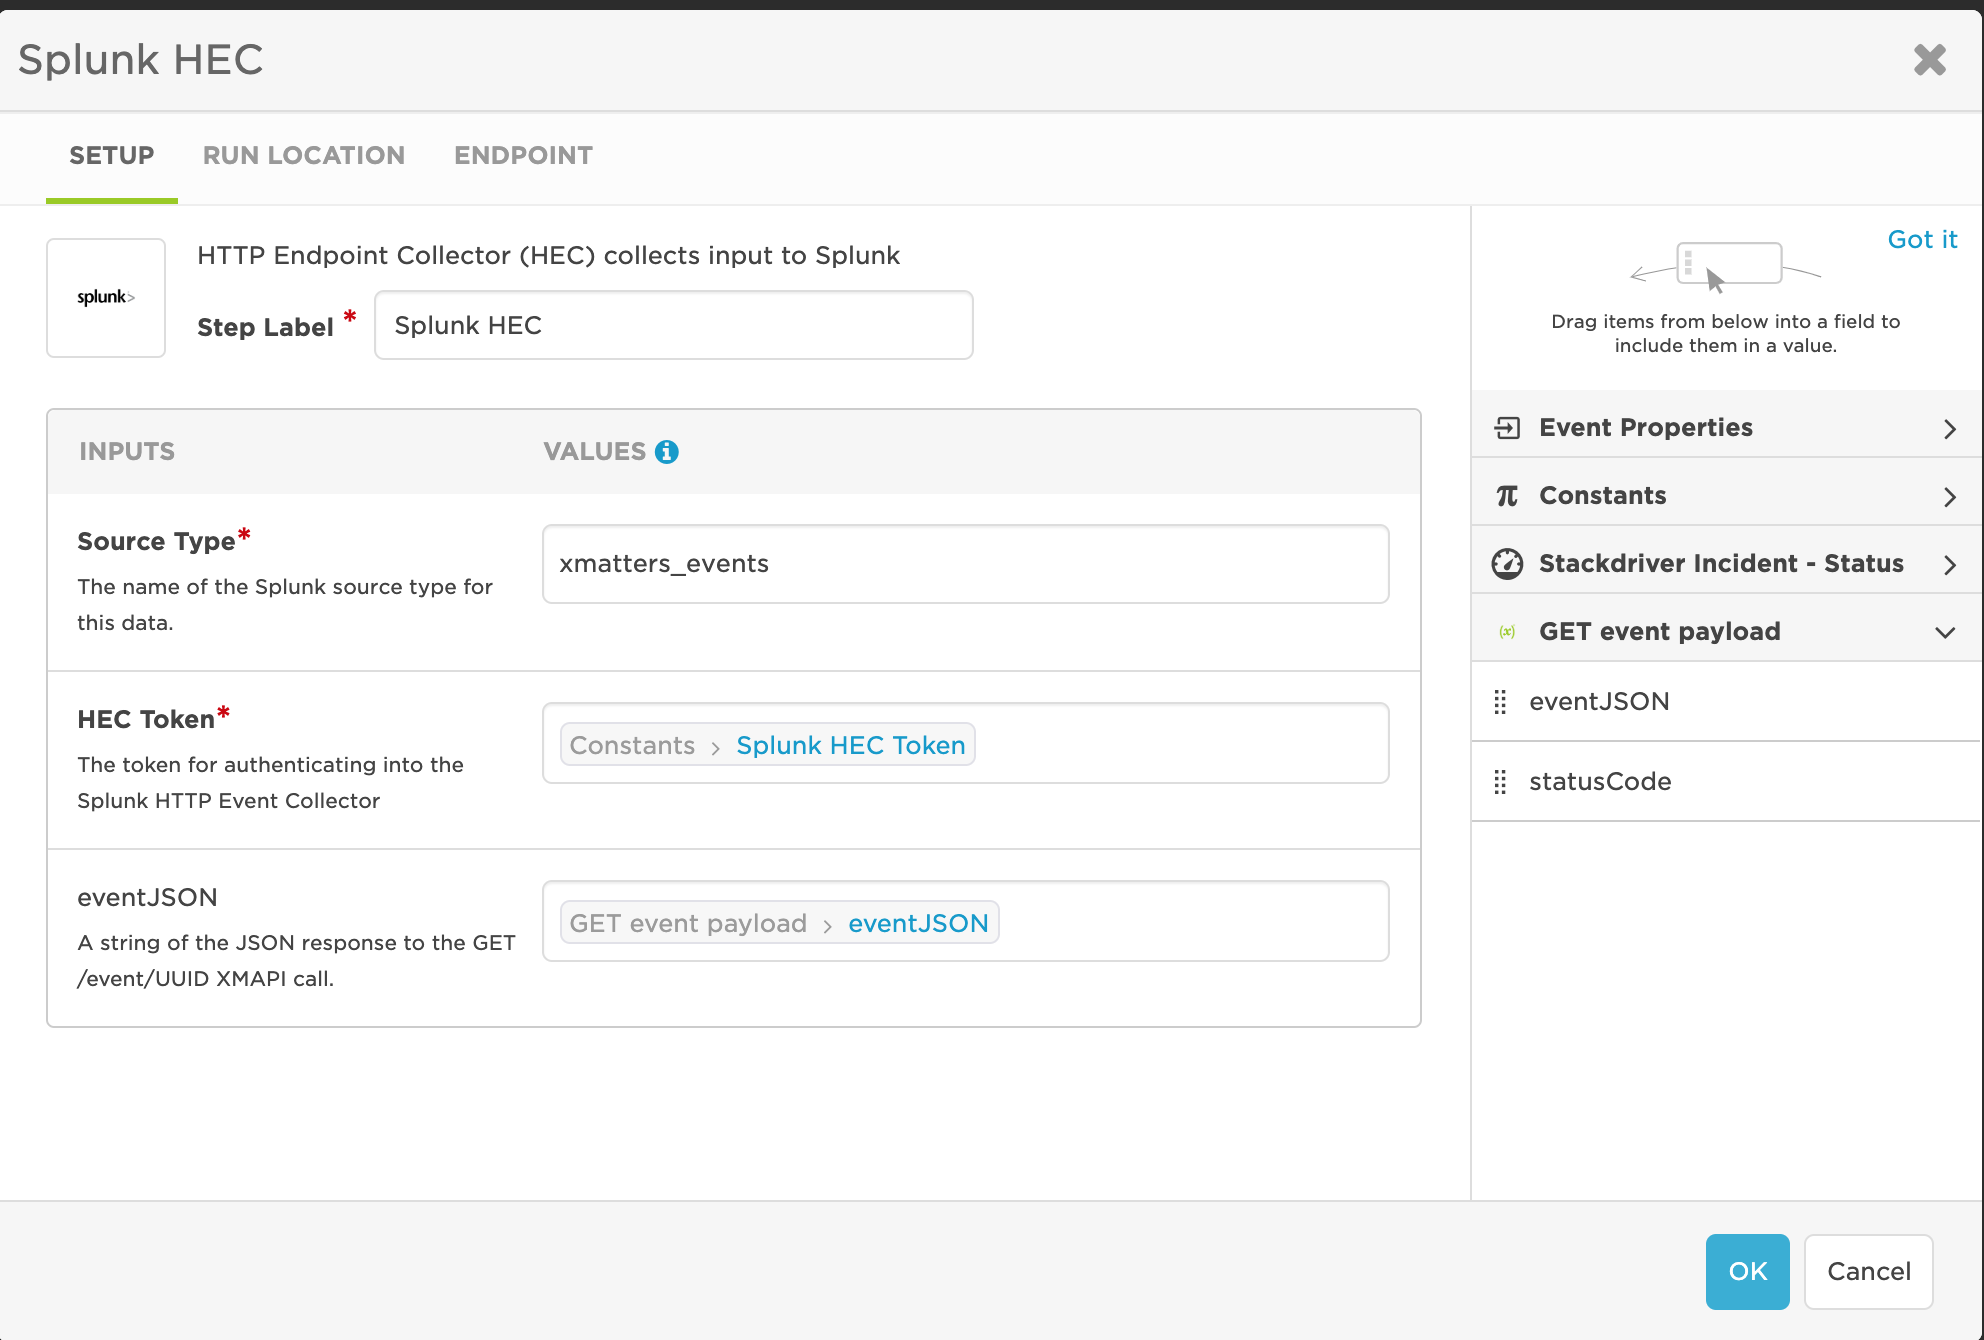
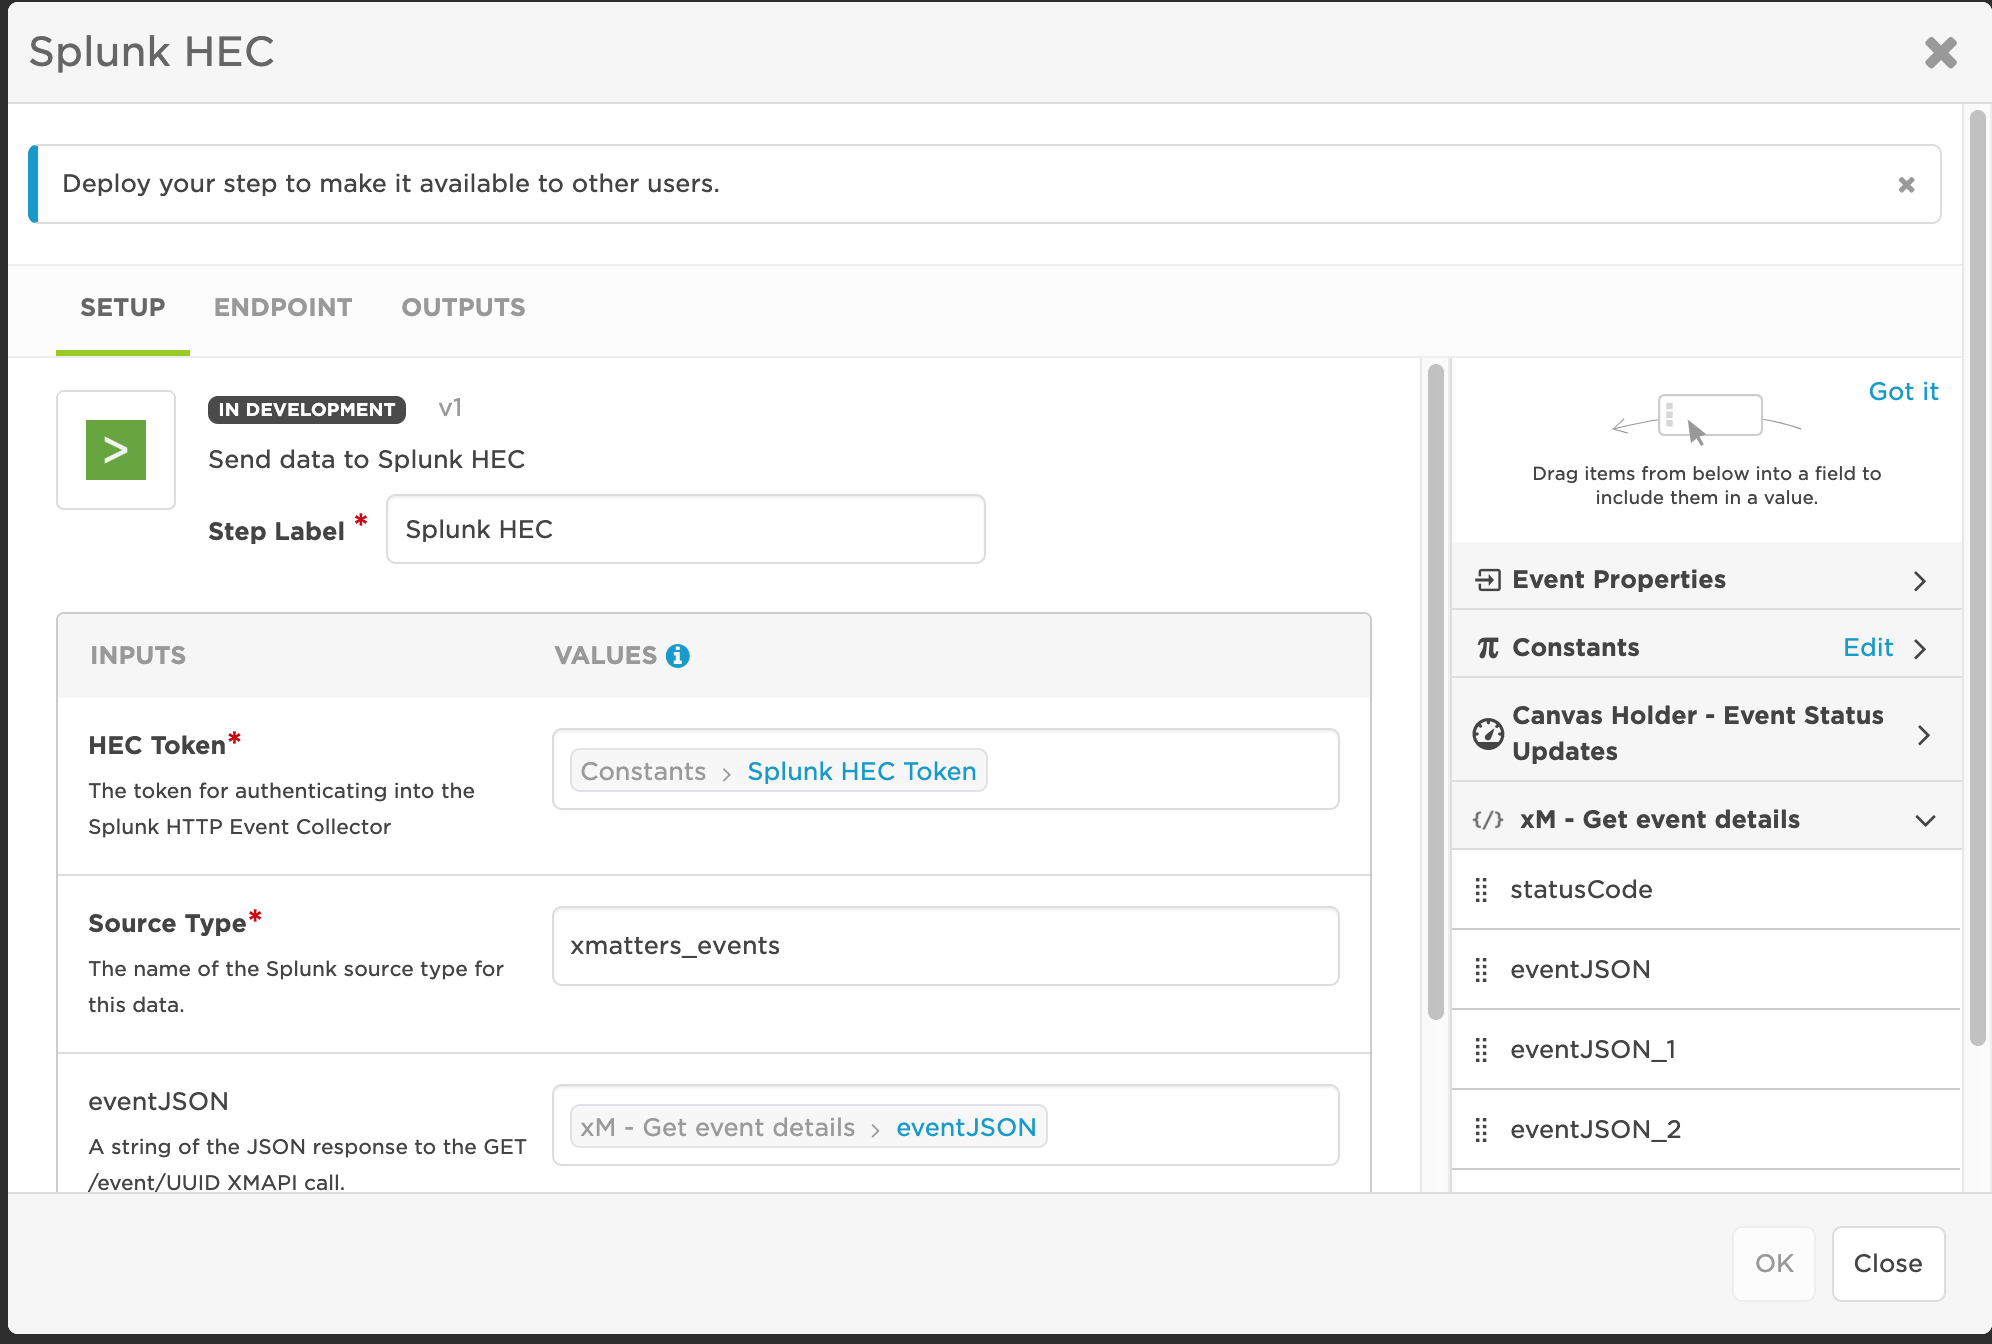
Added stuff to deal with large events

diff --git a/README.md b/README.md
@@ -25,7 +25,7 @@ Using the data sent from xMatters, you can build dashboards such as this one:
 # Splunk Setup
 ## Create xMatters Source Type 
 
-The source type is a way for Splunk to categorize and format the data being ingested. Customers likely won’t have a source type for xMatters data, so this will need to be done every time. Don’t worry, it isn’t complicated nor risky.  
+The source type is a way for Splunk to categorize and format the data being ingested.  
 
 Login to Splunk and click the Settings menu in the upper left, then head over to the Source Types. 
 
@@ -121,136 +121,19 @@ Clicking the Save button will execute the searches and display the results which
 
 # Flow Designer Steps
 
-## GET event payload
+## Import Steps
+The steps are packaged into the [SplunkHECSteps.zip](SplunkHECSteps.zip) workflow file making for easy importing. 
 
-### Settings
+1. Login to xMatters and navigate to the Workflow tab. 
+2. Click the Import button and import the [SplunkHECSteps.zip](SplunkHECSteps.zip) file. 
 
-The triggers don’t have all the data we want to send to Splunk, so we’re going to use the xM API to get the event. So, we’ll create a step that accepts 1 input, the event UUID, and has 2 outputs, one for the JSON string of the event ready for dropping into Splunk and the other for a status code in case we wanted to catch a failure. 
+The workflow contains two steps:
+* `xM - Get event details` which is used to retrieve details of the event
+* `Splunk HEC` which is used to send data to Splunk
 
-In the canvas, click Create a custom action and give it a useful name like **GET event payload**. Add the rest of the details like below. Note that we’ll be using the xMatters endpoint, which is marked as No Authentication in the backend apparently. 
+Both steps will be needed. 
 
-<kbd>
-  <img src="/media/GetEventPayload1.png" width=600 />
-</kbd>
-
-### Inputs
-
-Add an input for the eventID. The API accepts the UUID or the event ID, so we’ll just allow either. Note that nothing interesting will happen if we don’t pass this ID, so we mark it as required. 
-
-
-| Name  | Required? | Min | Max | Help Text | Default Value | Multiline |
-| ----- | ----------| --- | --- | --------- | ------------- | --------- |
-| eventID  | Yes | 0 | 2000 | The xMatters event ID or UUID to retrieve |  | No |
-
-### Outputs
-
-| Name |
-| ---- |
-| eventJSON |
-| statusCode |
-
-### Script
-Remove the default script and paste in all of this:
-
-```javascript
-
-// Build the request object and grab the properties and recipients
-var request = http.request({ 
-     "endpoint": "xMatters",
-     "path": "/api/xm/1/events/" + input['eventID'] + "?embed=properties,recipients,responseOptions,annotations",
-     "method": "GET"
- });
-
-var response = request.write();
-
-output['statusCode'] = response.statusCode;
-output['eventJSON']  = JSON.stringify( { "message": response.statusMessage } );
-
-if (response.statusCode == 200 ) {
-    json = JSON.parse(response.body);
-    console.log("Retrieved event: " + json.eventId + ". ID = " + json.id);
-    
-    eventJSON = JSON.parse( response.body );
-
-    // The audits endpoint has a timeline of all responses,
-    // not just the last one. 
-    request = http.request({ 
-        "endpoint": "xMatters",
-        "path": "/api/xm/1/audits?eventId=" + input['eventID'] + "&auditType=RESPONSE_RECEIVED",
-        "method": "GET"
-    });
-
-    response = request.write();
-    if( response.statusCode == 200 ){
-        eventJSON.audits = JSON.parse( response.body );
-    }
-    
-    output['eventJSON'] = JSON.stringify( eventJSON );
-}
-
-```
-
-
-## Splunk HEC
-This step is where we get to actually send the data out to Splunk. Create a new custom step called “Splunk HEC” like below. The logo file is attached in the email as splunk-thumb.png. Note again we select No Authentication as the endpoint type, but in this case it is because the token used to authenticate will be passed as an input. Also note that we select `Both` for the Run Location so that our users can execute this step in the Cloud or in an Agent depending on how xMatters will access Splunk.
-
-Splunk Logo available [here](SplunkLogo.png)
-
-<kbd>
-  <img src="/media/SplunkSettings.png" width=600 />
-</kbd>
-
-
-### Inputs
-
-| Name  | Required? | Min | Max | Help Text | Default Value | Multiline |
-| ----- | ----------| --- | --- | --------- | ------------- | --------- |
-| HEC Token | Yes | 0 | 2000 | The token for authenticating into the Splunk HTTP Event Collector | | |
-| Source Type | Yes | 0 | 2000 | The name of the Splunk source type for this data. | xmatters_events |
-| eventJSON | | 0 | 20000 | A string of the JSON response to the GET /event/UUID XMAPI call. | | |
-
-
-
-### Outputs
-
-| Name |
-| ---- |
-| Splunk Response |
-
-### Script
-
-```javascript
-
-// Build the Splunk request object. Note the Authorization header
-var request = http.request({ 
-    "endpoint": "Splunk",
-    "path": "/services/collector/event",
-    "method": "POST",
-    'headers': {
-        'Content-Type': 'application/json',
-        'Authorization': 'Splunk ' + input['HEC Token']
-    }
-});
-
-// Grab the event payload
-var eventJSON = JSON.parse( input['eventJSON'] );
-
-// Build the Splunk payload and mark it with the sourcetype
-var data = {
-    "sourcetype": input['Source Type'],
-    "event":      eventJSON
-};
-
-// Fire in the hole!
-var response = request.write( data );
-
-output['Splunk Response'] = response.statusCode;
-
-
-```
-
-
-# Constants
+## Constants
 Adding a constant to hold the token value means you don't have to type it in every time you want to use it. This way, you just drag the constant in as an input to the Splunk step. 
 Exit the flow designer and head over to the integration builder and click the **Edit Constants** button and paste in the value from above and hit **Save Changes**. 
 
@@ -261,7 +144,9 @@ Exit the flow designer and head over to the integration builder and click the **
 # Usage
 The design of these steps is such that using the event status trigger is best. This will ensure you have the initial event data as soon as it happens, and then **all** of the response and notification data. Using other triggers may be possible depending on what information you need to get and when. 
 
-Drag the event status trigger, the get event payload step and the Splunk HEC step onto the canvas and hook them up in order:
+The steps have been imported with the workflow, but as is they don't do anything interesting. They need to be added to a canvas to ship data from that canvas to Splunk. So open up your favorite canvas and drag the steps
+
+Add these to the event status trigger in this order:
 
 <kbd>
   <img src="/media/Flow1.png" width=400 />
@@ -280,11 +165,18 @@ On the endpoint tab, select the xMatters endpoint
 </kbd>
 
 
-Then, double click on the Splunk HEC step and map the inputs, pulling the token from the Constants section and the eventJSON from the Get Event Payload step like so:
+Then, double click on the Splunk HEC step and map the inputs, pulling the token from the Constants section and the eventJSON from the Get Event Payload step like so. 
 
 <kbd>
   <img src="/media/Flow-setup3.png" width=600 />
 </kbd>
+
+Make sure to drag all of the eventJSON properties to the corresponding input. (Each property in the stream can handle a max of 20,000 characters, but an event can be more than 20,000 so we break it up into chunks of 20,000. If an event is more than 80,000 characters an error will be thrown and you should add more inputs as appropriate.)
+
+<kbd>
+  <img src="/media/Flow-setup3.2.png" width=600 />
+</kbd>
+
 
 On the Run Location tab, make the appropriate selection depending on how xMatters will access your Splunk environment. If you are running Splunk in the cloud or have an open firewall connection, then select Cloud. Otherwise, select an xMatters Agent that will have access to Splunk. 
 
@@ -302,7 +194,7 @@ Then, your Base URL is:
 
 `https://input-prd-p-cqzf26jjxqbp.cloud.splunk.com:8088`
 
-One last thing, for these new Splunk cloud instances, you will need to check the Trust Self Signed Certificates in the endpoint. Likely you won’t have to for a customer’s environment. 
+One last thing, it seems that Splunk cloud instances will need to check the Trust Self Signed Certificates in the endpoint. 
 
 <kbd>
   <img src="/media/Flow-setup4.png" width=500 />
